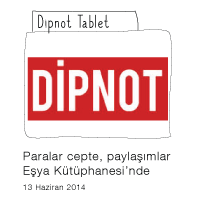
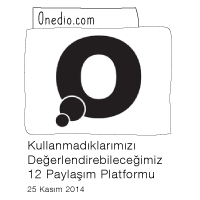
press page - updated

diff --git a/src/esyakutuphanesi/templates/press.html b/src/esyakutuphanesi/templates/press.html
@@ -8,46 +8,47 @@
     </div>
     <div class="row">
         <div class="col-md-3 col-sm-4 col-xs-6">
-            <a href="http://www.dipnot.tv/kapidaki-dusman-isid-kapagi-ile-dipnot-tabletin-169-sayisi-cikti/71040/">
+            <a href="http://onedio.com/haber/kullanmadiklarimizi-degerlendirebilecegimiz-12-paylasim-platformu-409040" target="_blank">
                 <img src="/static/images/basin/24.png"/>
             </a>
-        </div>        <div class="col-md-3 col-sm-4 col-xs-6">
-            <a href="http://www.kuledibi.org/manset/esyakutuphanesi/">
+        </div>
+        <div class="col-md-3 col-sm-4 col-xs-6">
+            <a href="http://www.kuledibi.org/manset/esyakutuphanesi/" target="_blank">
                 <img src="/static/images/basin/23.png"/>
             </a>
         </div>
         <div class="col-md-3 col-sm-4 col-xs-6">
-            <a href="http://gold.ajanspress.com.tr/extp/MzgzNDY0NDUmMSYxNjAxJjIzMjY1MQ%3D%3D#.U54NxvmSwmt">
+            <a href="http://gold.ajanspress.com.tr/extp/MzgzNDY0NDUmMSYxNjAxJjIzMjY1MQ%3D%3D#.U54NxvmSwmt" target="_blank">
                 <img src="/static/images/basin/22.png"/>
             </a>
         </div>
         <div class="col-md-3 col-sm-4 col-xs-6">
-            <a href="http://yesilgozluklerim.blogspot.com.tr/2014/04/esyann-dayanlmaz-agrlg.html">
+            <a href="http://yesilgozluklerim.blogspot.com.tr/2014/04/esyann-dayanlmaz-agrlg.html" target="_blank">
                 <img src="/static/images/basin/21.png"/>
             </a>
         </div>
         <div class="col-md-3 col-sm-4 col-xs-6">
-            <a href="http://www.hurriyet.com.tr/ankara/26172131.asp">
+            <a href="http://www.hurriyet.com.tr/ankara/26172131.asp" target="_blank">
                 <img src="/static/images/basin/20.png"/>
             </a>
         </div>
         <div class="col-md-3 col-sm-4 col-xs-6">
-            <a href="http://www.haberler.com/bilgi-genc-sosyal-girisim-odulleri-dorduncu-kez-5873048-haberi/">
+            <a href="http://www.haberler.com/bilgi-genc-sosyal-girisim-odulleri-dorduncu-kez-5873048-haberi/" target="_blank">
                 <img src="/static/images/basin/19.png"/>
             </a>
         </div>
         <div class="col-md-3 col-sm-4 col-xs-6">
-            <a href="http://www.turk-internet.com/portal/yazigoster.php?yaziid=46453">
+            <a href="http://www.turk-internet.com/portal/yazigoster.php?yaziid=46453" target="_blank">
                 <img src="/static/images/basin/18.png"/>
             </a>
         </div>
         <div class="col-md-3 col-sm-4 col-xs-6">
-            <a href="http://www.paylas.com/video/teknolojinin-sosyal-faydasi-devfest-women-">
+            <a href="http://www.paylas.com/video/teknolojinin-sosyal-faydasi-devfest-women-" target="_blank">
                 <img src="/static/images/basin/17.png"/>
             </a>
         </div>
         <div class="col-md-3 col-sm-4 col-xs-6">
-            <a href="http://www.zehirsizev.com/etkinlik/paylasim-ekonomisi-bulusmasi-yeryuzu-dernegi-zumbara-esya-kutuphanesi-ekolojik-gezgin/">
+            <a href="http://www.zehirsizev.com/etkinlik/paylasim-ekonomisi-bulusmasi-yeryuzu-dernegi-zumbara-esya-kutuphanesi-ekolojik-gezgin/" target="_blank">
                 <img src="/static/images/basin/16.png"/>
             </a>
         </div>
@@ -55,12 +56,12 @@
             <img src="/static/images/basin/15.png"/>
         </div>
         <div class="col-md-3 col-sm-4 col-xs-6">
-            <a href="http://sosyalgirisimci-lik.blogspot.com.tr/2014/01/23-ocak-2014-gunu-programn-konuklar-3.html">
+            <a href="http://sosyalgirisimci-lik.blogspot.com.tr/2014/01/23-ocak-2014-gunu-programn-konuklar-3.html" target="_blank">
                 <img src="/static/images/basin/14.png"/>
             </a>
         </div>
         <div class="col-md-3 col-sm-4 col-xs-6">
-            <a href="http://www.yesilinasli.com/2014/01/17/neden-esya-kutuphanesi/">
+            <a href="http://www.yesilinasli.com/2014/01/17/neden-esya-kutuphanesi/" target="_blank">
                 <img src="/static/images/basin/13.png"/>
             </a>
         </div>
@@ -70,17 +71,17 @@
     </div>
     <div class="row">
         <div class="col-md-3 col-sm-4 col-xs-6">
-            <a href="http://www.youtube.com/watch?v=t5ZZSMiuEMw&feature=youtu.be">
+            <a href="http://www.youtube.com/watch?v=t5ZZSMiuEMw&feature=youtu.be" target="_blank">
                 <img src="/static/images/basin/12.png"/>
             </a>
         </div>
         <div class="col-md-3 col-sm-4 col-xs-6">
-            <a href="http://www.milliyet.com.tr/bilgi-nin-genc-sosyal/ekonomi/ydetay/1793423/default.htm">
+            <a href="http://www.milliyet.com.tr/bilgi-nin-genc-sosyal/ekonomi/ydetay/1793423/default.htm" target="_blank">
                 <img src="/static/images/basin/11.png"/>
             </a>
         </div>
         <div class="col-md-3 col-sm-4 col-xs-6">
-            <a href="https://www.facebook.com/photo.php?fbid=459648240820657">
+            <a href="https://www.facebook.com/photo.php?fbid=459648240820657" target="_blank">
                 <img src="/static/images/basin/10.png"/>
             </a>
         </div>
@@ -88,37 +89,37 @@
             <img src="/static/images/basin/9.png"/>
         </div>
         <div class="col-md-3 col-sm-4 col-xs-6">
-            <a href="http://sosyalgirisimci-lik.blogspot.com.tr/2013/08/22-agustos-2013-gunu-programn-konusu.html">
+            <a href="http://sosyalgirisimci-lik.blogspot.com.tr/2013/08/22-agustos-2013-gunu-programn-konusu.html" target="_blank">
                 <img src="/static/images/basin/8.png"/>
             </a>
         </div>
         <div class="col-md-3 col-sm-4 col-xs-6">
-            <a href="http://www.yesilist.com/cms.php?id=1151">
+            <a href="http://www.yesilist.com/cms.php?id=1151" target="_blank">
                 <img src="/static/images/basin/7.png"/>
             </a>
         </div>
         <div class="col-md-3 col-sm-4 col-xs-6">
-            <a href="http://www.hurriyetdailynews.com/Default.aspx?pageID=517&nID=51124&NewsCatID=344">
+            <a href="http://www.hurriyetdailynews.com/Default.aspx?pageID=517&nID=51124&NewsCatID=344" target="_blank">
                 <img src="/static/images/basin/6.png"/>
             </a>
         </div>
         <div class="col-md-3 col-sm-4 col-xs-6">
-            <a href="http://www.hurriyet.com.tr/pasaj/23661042.asp">
+            <a href="http://www.hurriyet.com.tr/pasaj/23661042.asp" target="_blank">
                 <img src="/static/images/basin/5.png"/>
             </a>
         </div>
         <div class="col-md-3 col-sm-4 col-xs-6">
-            <a href="http://startupcultures.wordpress.com/2013/07/03/hug-day-coming-to-an-office-near-you/">
+            <a href="http://startupcultures.wordpress.com/2013/07/03/hug-day-coming-to-an-office-near-you/" target="_blank">
                 <img src="/static/images/basin/4.png"/>
             </a>
         </div>
         <div class="col-md-3 col-sm-4 col-xs-6">
-            <a href="http://www.bianet.org/biamag/yasam/144926-baskasinin-ihtiyacindan-bana-ne">
+            <a href="http://www.bianet.org/biamag/yasam/144926-baskasinin-ihtiyacindan-bana-ne" target="_blank">
                 <img src="/static/images/basin/3.png"/>
             </a>
         </div>
         <div class="col-md-3 col-sm-4 col-xs-6">
-            <a href="http://www.posta.com.tr/cumartesipostasi/HaberDetay/Dolaplari-bosaltin-birileri-sevinsin-.htm?ArticleID=171717">
+            <a href="http://www.posta.com.tr/cumartesipostasi/HaberDetay/Dolaplari-bosaltin-birileri-sevinsin-.htm?ArticleID=171717" target="_blank">
                 <img src="/static/images/basin/2.png"/>
             </a>
         </div>
